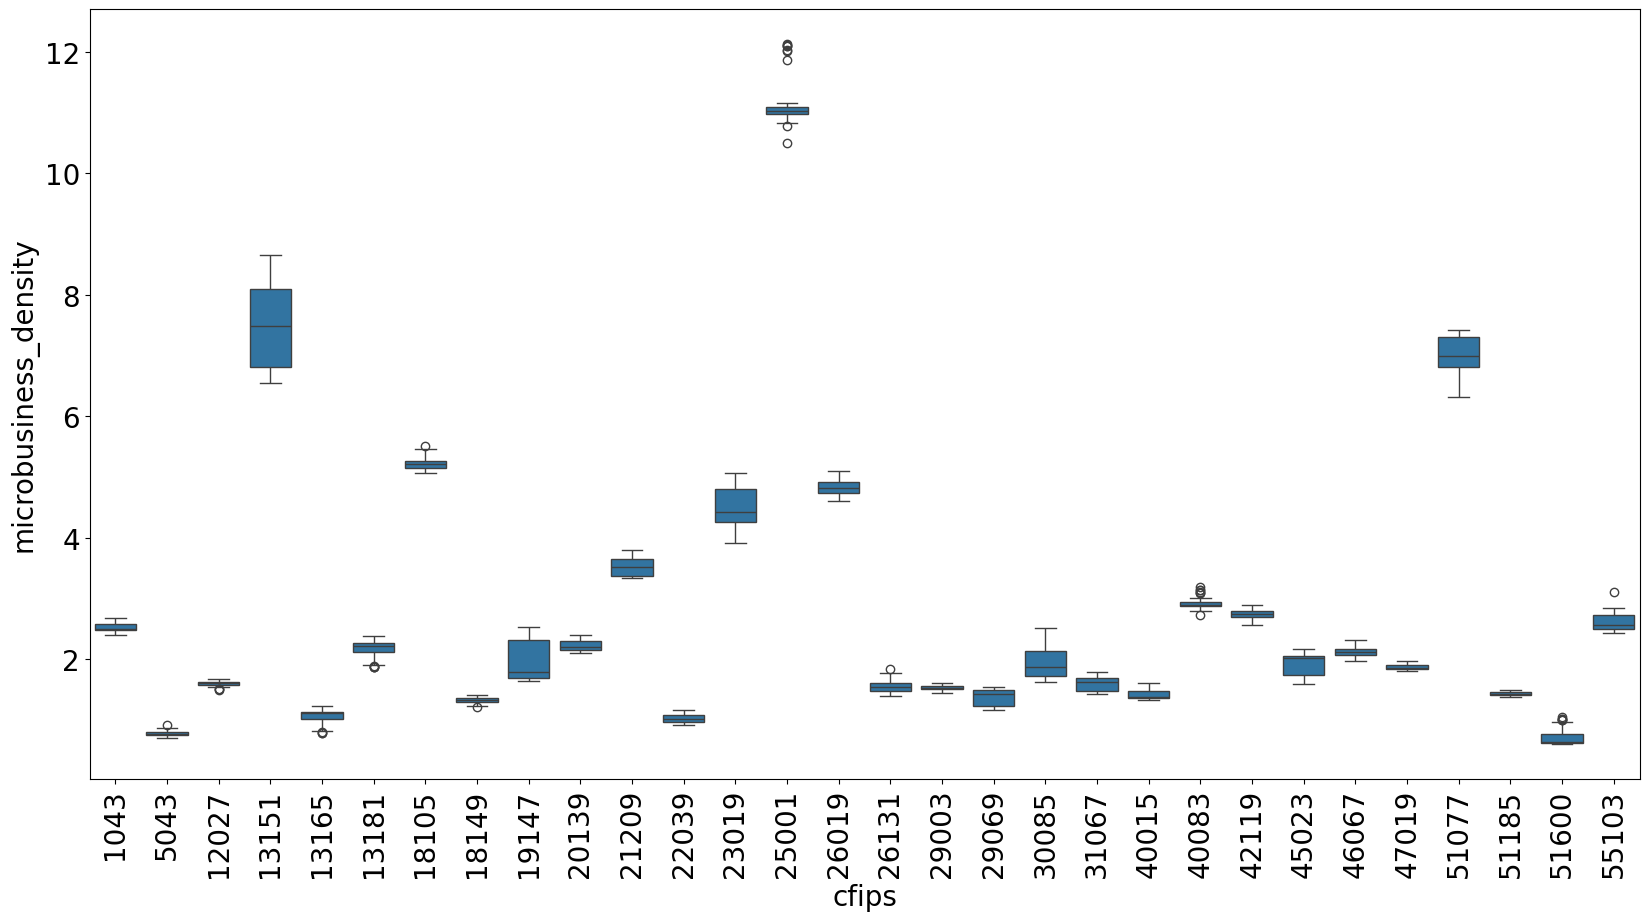
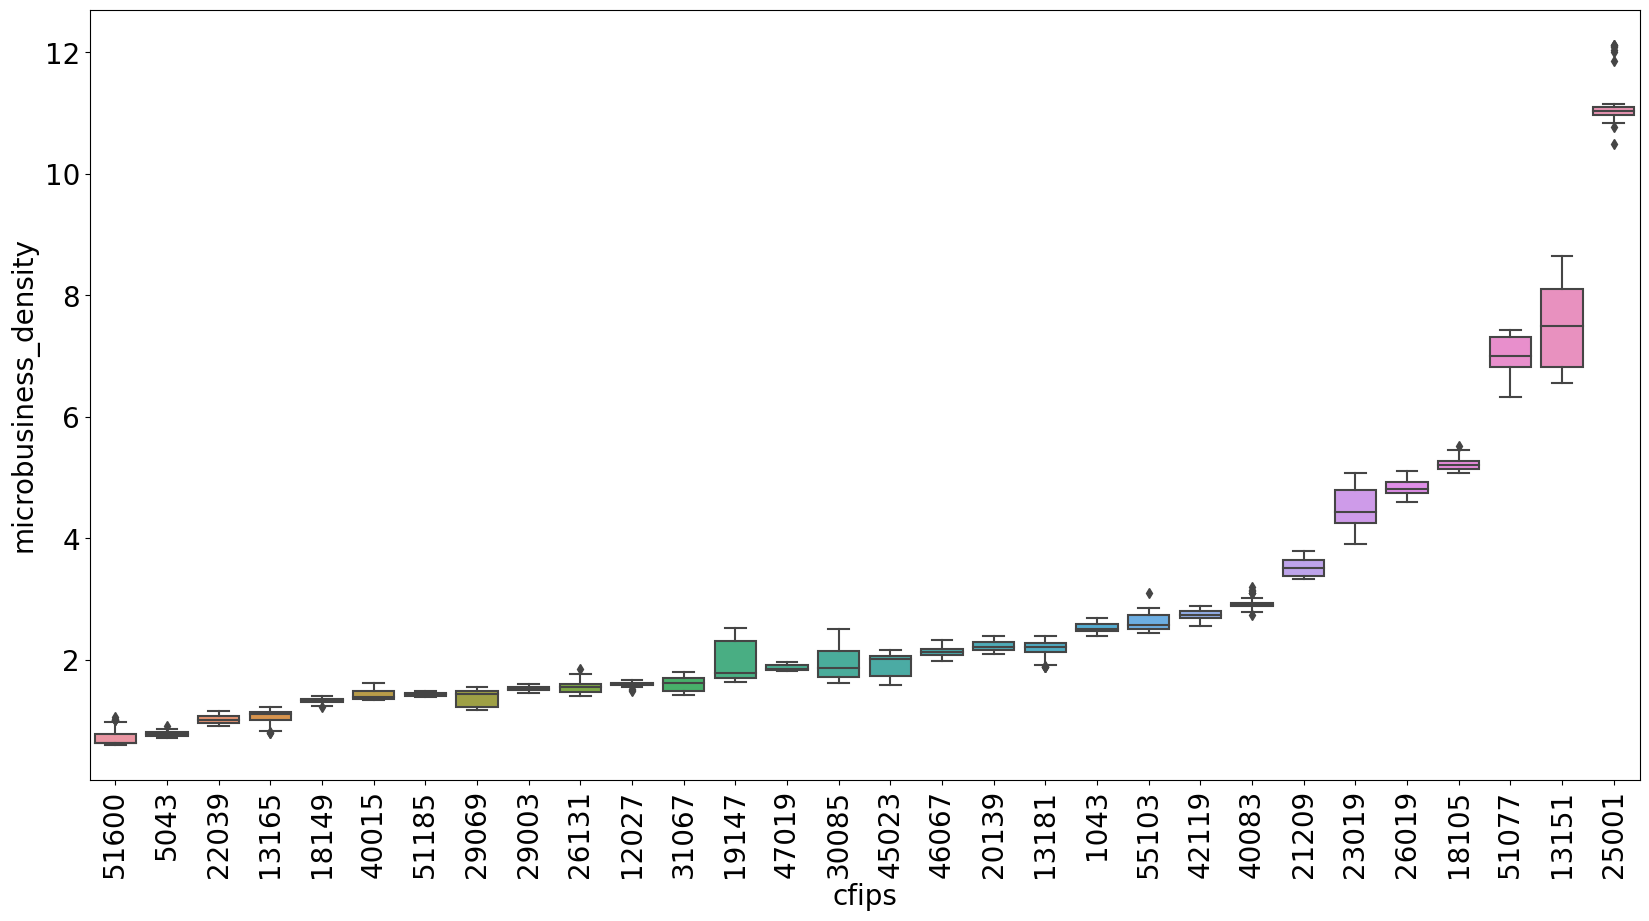
add

diff --git a/blog/2024/04/08/2024-04-08-pitfall-visualize.md b/blog/2024/04/08/2024-04-08-pitfall-visualize.md
@@ -80,9 +80,22 @@ Vậy lựa chọn đường cơ sở như thế nào cho đúng? Đối với v
 
 ## Đưa quá nhiều dữ liệu với các khoảng dữ liệu khác nhau
 
-Lỗi tiếp theo là lỗi chúng ta thường gặp ở dữ liệu Chuỗi thời gian
+Lỗi tiếp theo là lỗi chúng ta thường gặp ở dữ liệu Chuỗi thời gian. Chúng ta sẽ bàn về cuộc thi dự báo hoạt động kinh doanh vi mô ở các bang của Hoa Kỳ được đo bằng mật độ  doanh nghiệp ở các bang [GoDaddy - Microbusiness Density Forecasting](https://www.kaggle.com/competitions/godaddy-microbusiness-density-forecasting)
 
 <figure>
 ![](pitfall_3.png)
 <figcaption>Microbusiness Density Forecasting</figcaption>
+</figure>
+
+Chúng ta cần chia thành từng nhóm
+
+<figure>
+![](pitfall_3_1.png)
+<figcaption>Boxplot</figcaption>
+</figure>
+
+
+<figure>
+![](pitfall_3_2.png)
+<figcaption>Timeserise</figcaption>
 </figure>
